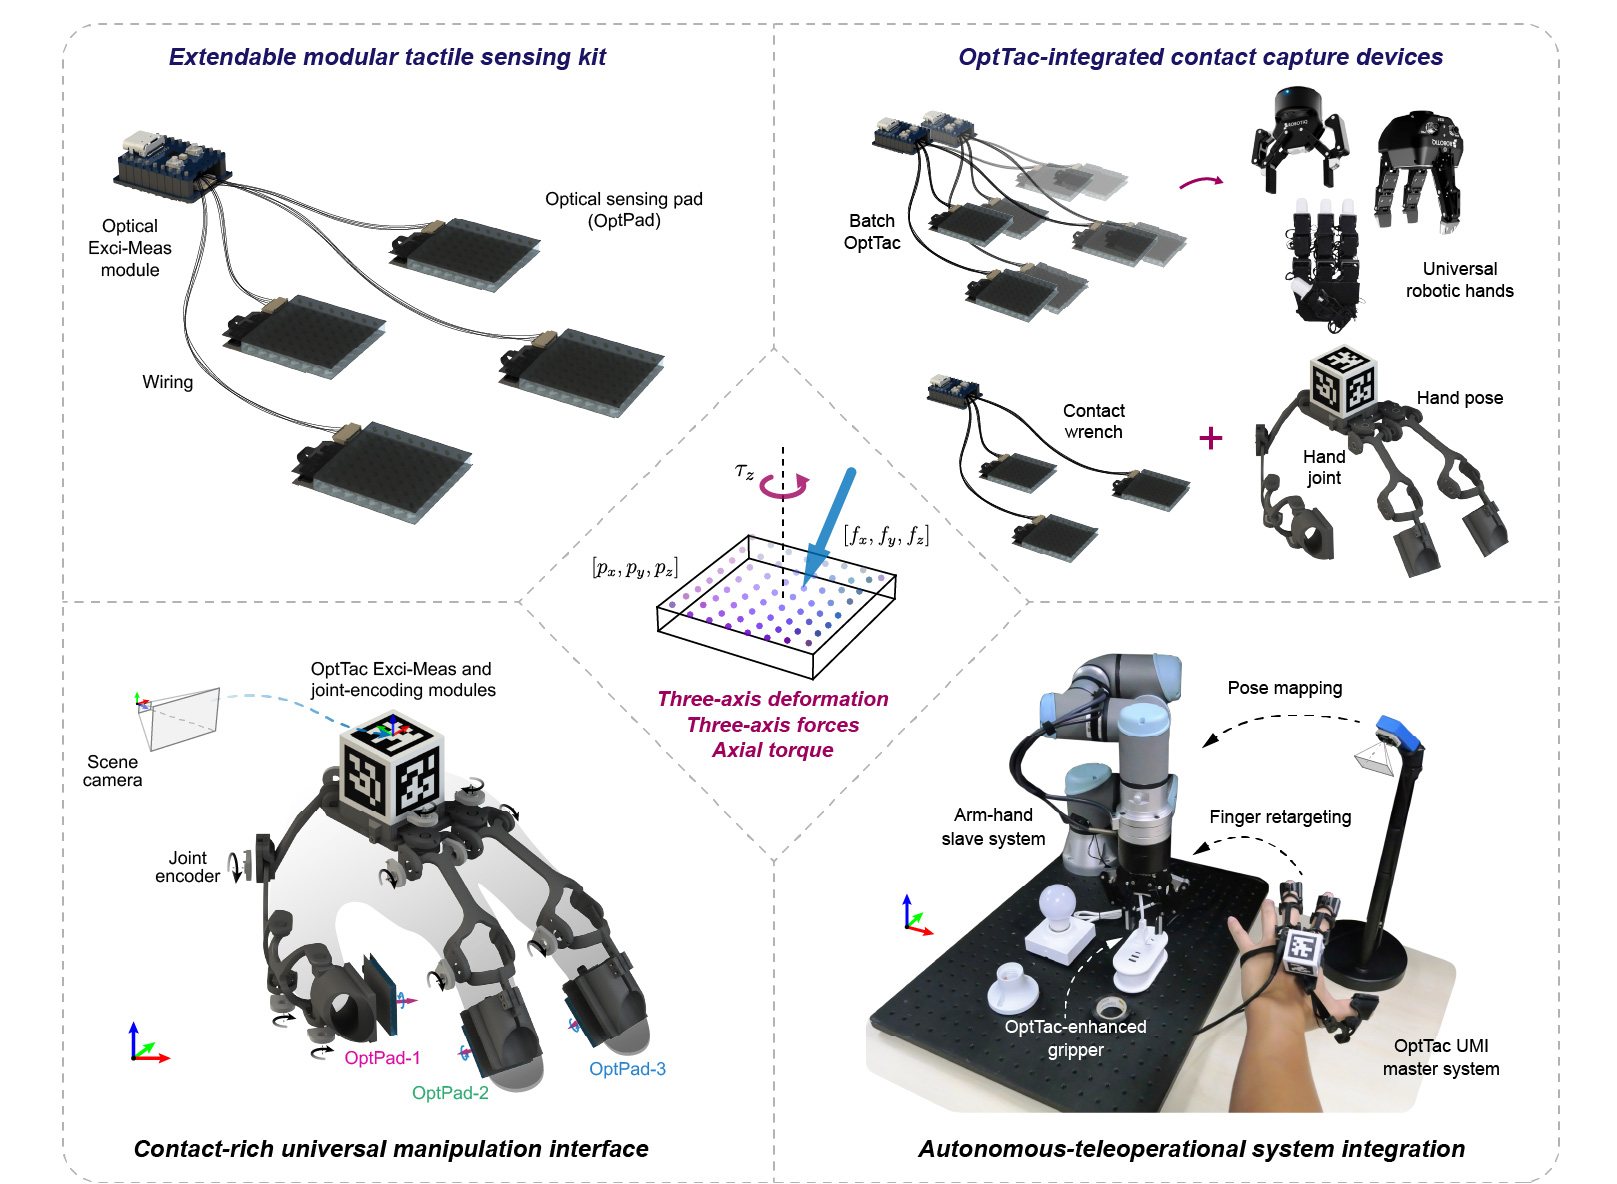
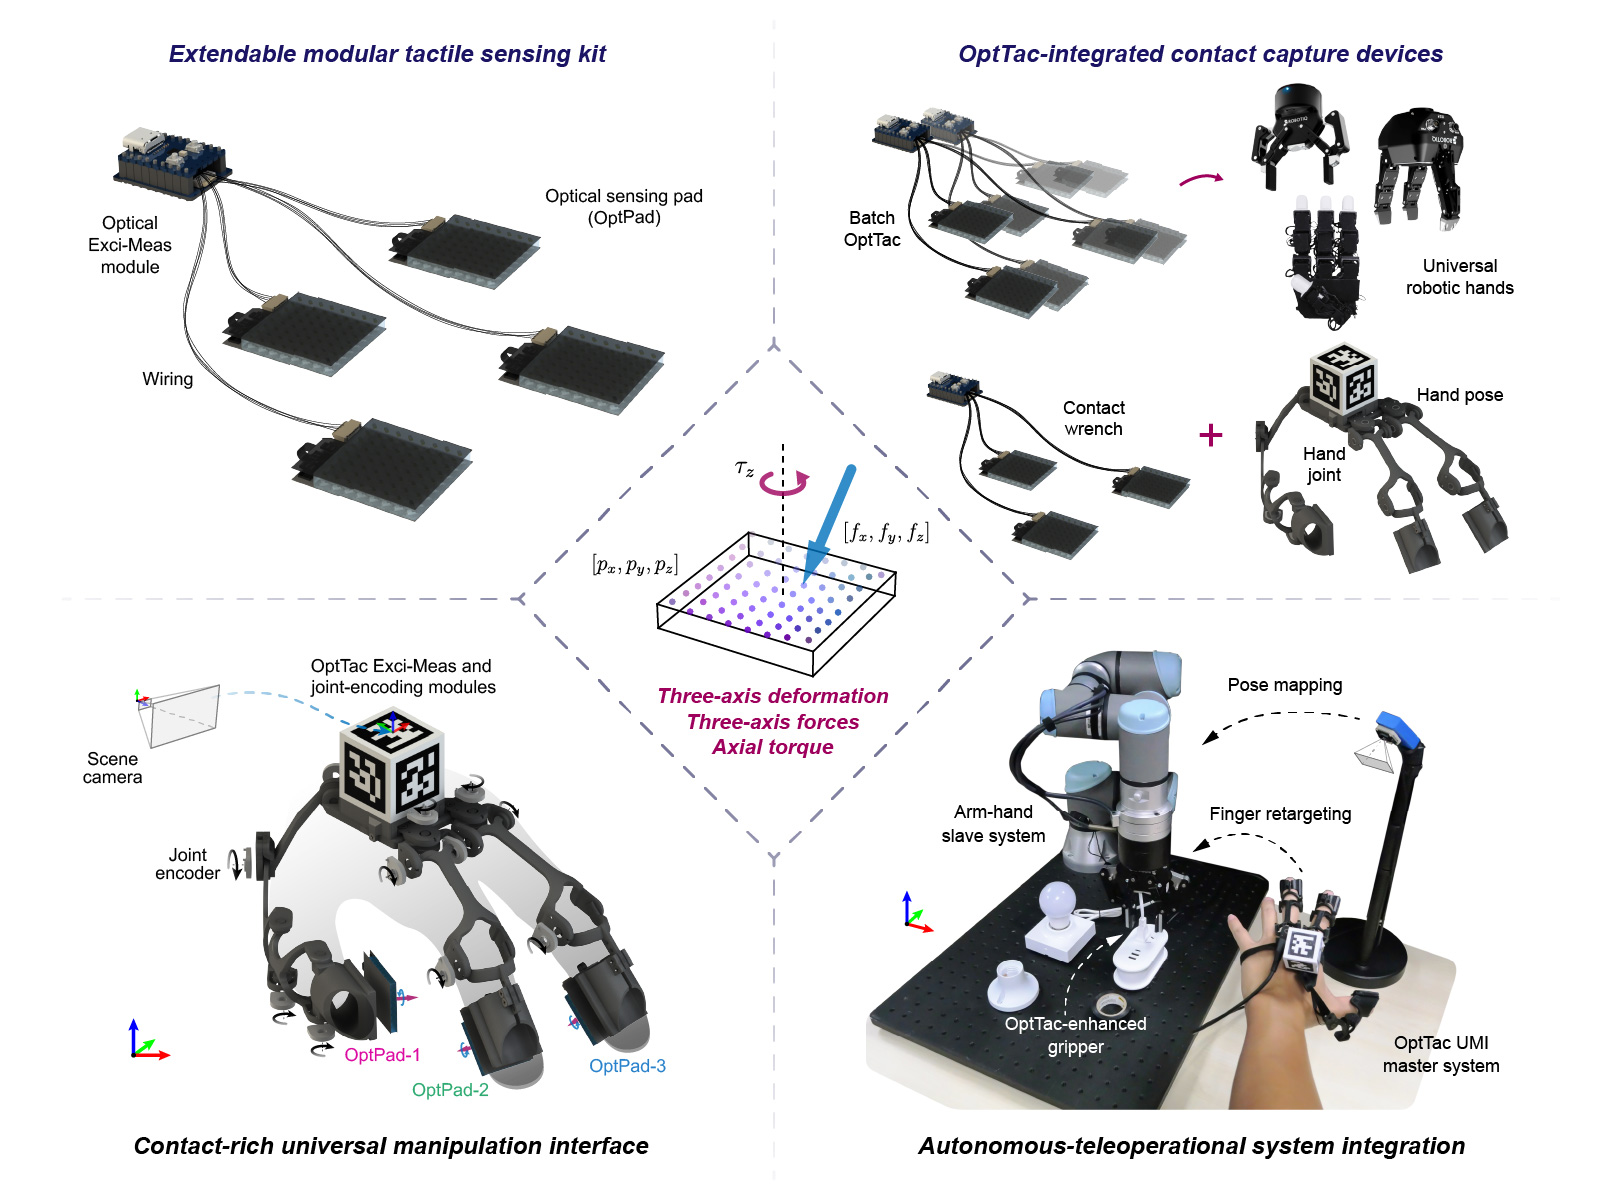
update software and hardware workflow

diff --git a/README.md b/README.md
@@ -2,19 +2,20 @@
 
 # OptTac: <ins>low-cost</ins> <ins>triaxial</ins> <ins>distributed</ins> deform-force-torque tactile sensing kit for generalizeable robotic manipulation
 
-[![Project](https://img.shields.io/badge/Page_and_Guide-GitHub-green)](https://wangzivector.github.io/OptTacPage/)
-[![Project](https://img.shields.io/badge/Hardware-CAD-purple)](./manicapture/hardware/)
-[![License](https://img.shields.io/badge/Software-ROS-red)](./manicapture/)
-[![Pretrain Model](https://img.shields.io/badge/Pretrain_model-Numpy-yellow)](./manicapture/misc)
-[![License](https://img.shields.io/badge/License-PolyForm-blue)](./LICENSE)
+[![](https://img.shields.io/badge/Guide-Page-green)](https://wangzivector.github.io/OptTacPage/)
+[![](https://img.shields.io/badge/Hardware-CAD-purple)](#device-manufacture)
+[![](https://img.shields.io/badge/Software-ROS-red)](./manicapture/)
+[![](https://img.shields.io/badge/Pretrain_model-Numpy-yellow)](./manicapture/misc)
+[![](https://img.shields.io/badge/License-PolyForm-blue)](./LICENSE)
 
 
-We introduce OptTac, optoelectronic sensing kit enabled triaxial deformation-force-torque generalization for contact-aware manipulation.
-The hardware manufacture and software package are open-sourced for tactile reproduction towards relevant manipulation research. [[Project page]](https://wangzivector.github.io/opttacpage)
+We introduce [OptTac](https://wangzivector.github.io/OptTacPage/), optoelectronic tactile sensing kit enabled triaxial deformation-force-torque generalization for contact-rich robotic hardware augmentation.
+The device manufacture and software package are open-sourced for tactile reproduction towards relevant embodied manipulation research. 
 
 <img src="assets/media/system@3x-80.jpg" width="95%" title="opttac_system">
 
-<ins>**Features of OptTac**</ins>
+<br>
+<!-- <ins>**OptTac System**</ins> -->
 
 | Key characteristics | Functional description | Further reference |
 |---------|-------------|-------------|
@@ -27,7 +28,7 @@ The hardware manufacture and software package are open-sourced for tactile repro
 
 </div>
 
-## Maintenance schedule
+## 0. Maintenance schedule
 <mark>This work is gradually available in scheduled steps, under continuous preparation:</mark>
 
 > **The full hardware scheme, including PCB schemetic, BOM, FPCB Assembly, and fabrication guides, <br>will be publicly available after careful preparation and patent organization within Nov. 2026.** 
@@ -37,32 +38,58 @@ The hardware manufacture and software package are open-sourced for tactile repro
 <br>⬜ Fabrication guidance for OptTac [Est. 2026-10]
 <br>✅ Exoskeleton hand sensing kit: CAD and ROS package [2026-09-29]
 <br>✅ ROS package for tactile computation and visualization [2026-09-29]
-<br>⬜ Software setup, usage, and examples [Est. 2026-10-07]
+<br>✅ Software setup, usage, and examples [2026-10-07]
 <br>✅ Pre-trained checkpoints for wrench models [2026-09-29]
-<br>⬜ LeapHand extension using OptTac [Est. 2026-10]
-<br>⬜ LeapHand retargeting using OptTac [Est. 2026-10]
+<br>⬜ LeapHand extension and retargeting with OptTac [Est. 2026-10]
 
-## Device manufacture
-### OptPad FPCB manufacture
-- EasyEDA project link for PCB schmetic design.
+## 1. Manufacture
+### Step 1: OptPad FPCB manufacture
+- EasyEDA project link for FPCB schmetic design
 - BOM files
-- Assembly service reference
+- FPCB assembly service
 
-### Elastomer casting
-- 3D-printed CAD files of casting molds: [Project pages](page1)
-- Manufacture video guidance: [Project pages](page2)
+### Step 2: Elastomer casting
+- CAD files of 3D-printed casting molds: [Project pages](page1)
+- Videos of manufacture guidance
 
-## Software environment
-### Step 1: conda env establishment
-```
+### Step 3: Modular assembly
+- Connecting board manufacture
+- Controller connection
+
+### Step 4 (Extended): Hand exoskeleton
+- Fabrication of mechanical links
+- Preparation of angular encoders
+- Joint-controller assembly
+
+### Step 5 (Extended): Visual 6D pose tracking
+- Assembly of Apriltags marker
+- Establishment of visual camera 
+
+## 2. Software
+### A: OptTac sensing pad
+<!-- ```
 # Create conda environment
 conda create -n manicapture python=3.10
 conda activate manicapture
+``` -->
+```
+# Activate USB Port connection
+# Launch tactile system module
+
 ```
 
+### B: Exoskeleton articulation
+```
+# Launch joint encoding module
 
+```
+### C: Visual pose tracking
+```
+# Install apriltag_ros Package
 
-## License
+```
+
+## -2. License
 
 **This project is licensed under the [PolyForm Noncommercial License 1.0.0](LICENSE).**
 
@@ -70,7 +97,7 @@ Researchers and practitioners are welcome to implement this project by complying
 You may use, copy, and modify this code for noncommercial purposes, such as academic research, personal study, or experimentation.
 
 
-## Citation
+## -1. Citation
 If you want to cite this work, please find reference below:
 ```
 @article{wang2026opttac,
@@ -80,3 +107,6 @@ If you want to cite this work, please find reference below:
   year={2026}
 }
 ```
+
+## -0. Acknowledgement
+We welcome your valuable suggestions on enhancing this project.
